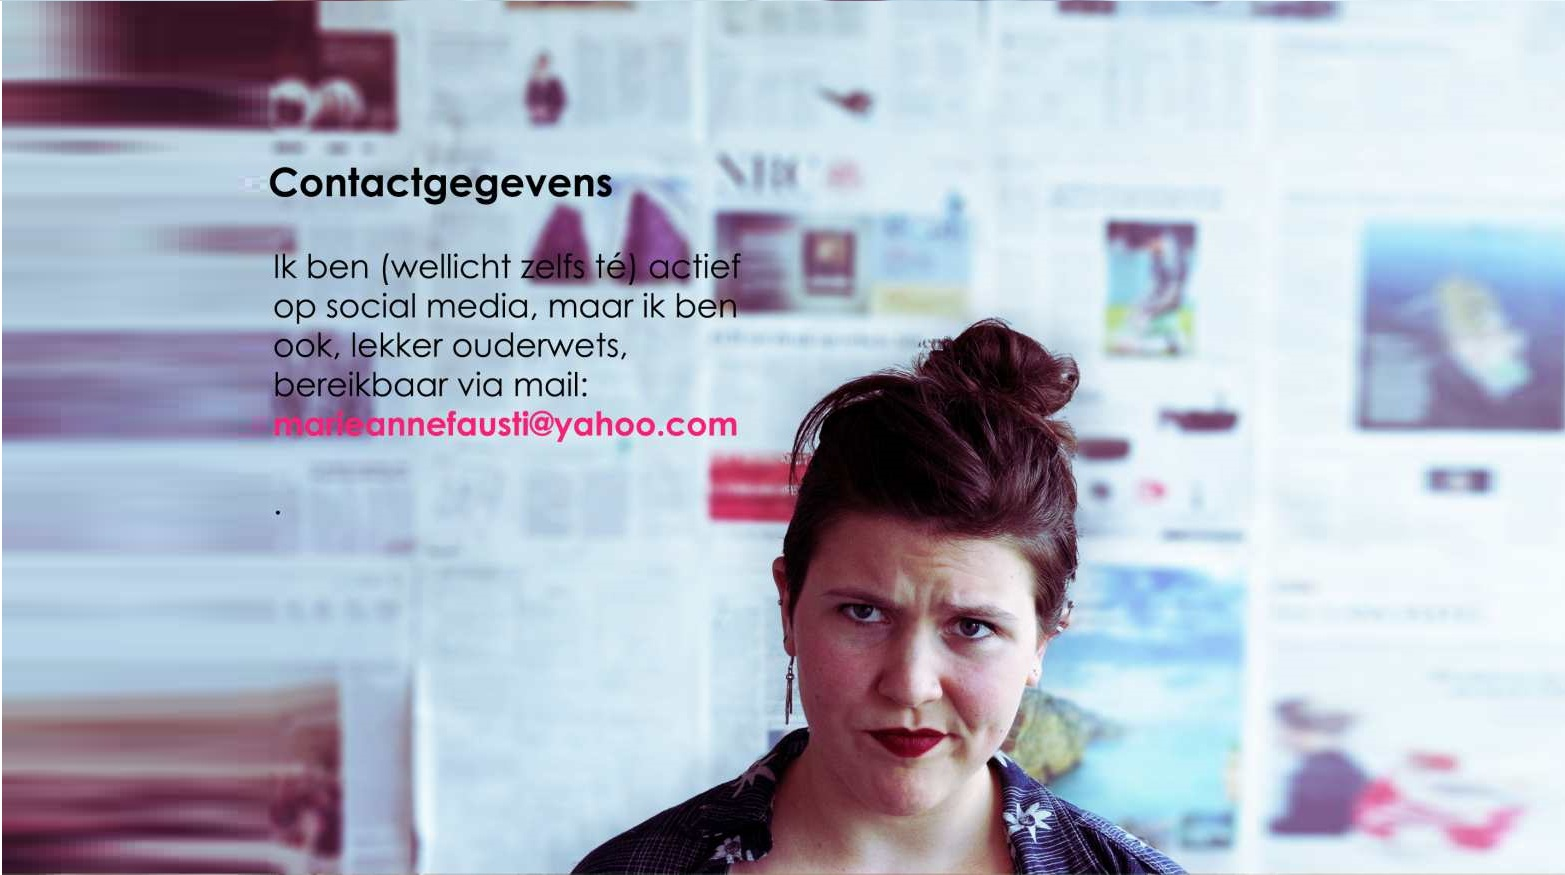
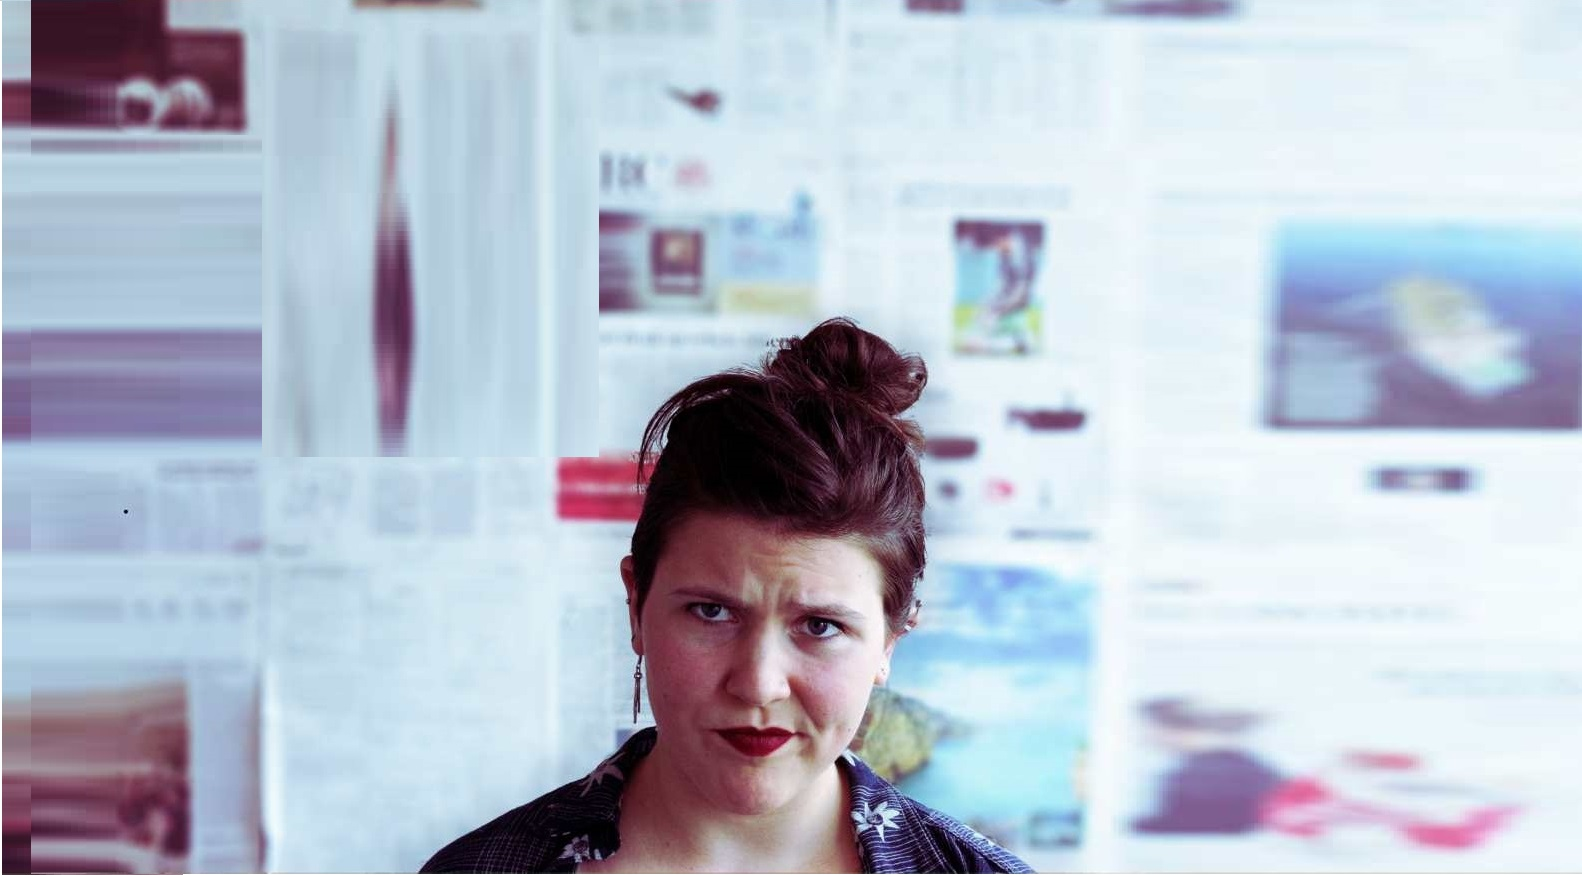
bio completed

diff --git a/site/index.html b/site/index.html
@@ -86,7 +86,11 @@
         <span class="page_size"></span><span class="page_name">section_1-3 bio_2</span>
         
         <nav class="cv_melding">
-          <a target="_blank" href="doc/curricula/favst_cv.pdf">Hier</a> kunt u mijn CV <br/>bekijken.
+          <h2>Contactgegevens</h2>
+          <p>Ik ben (wellicht zelfs té) actief op social media, maar ik ben ook, lekker ouderwets,
+            bereikbaar via mail: <span class="bold crimson">marieannefausti@yahoo.com</span><br/><br/>
+            <a target="_blank" href="doc/curricula/favst_cv.pdf">Hier</a> kunt u mijn CV bekijken.
+          </p>
         </nav>
         
         <nav class="pocket_menu_nav bottom_left">
@@ -236,7 +240,7 @@
             </div>
             <article class="presentation left">
               <h1 class="azur">Ik zoek een kamer in Utrecht</h1>
-              <p class="kleiner bruingeel bruingeel_shadow">Vorig jaar zocht ik een kamer in Utrecht, dus maakte ik dit filmpje in de hoop dat het een paar keer gedeeld zou worden. Echter ging hij toen viral in Nederland en werd ik overspoeld met reacties. Na mijn onverwachte week-of-fame heb ik dan ook een kamertje gevonden.</p>
+              <p class="kleiner bruingeel bruingeel_shadow">Vorig jaar zocht ik een kamer in Utrecht, dus maakte ik dit filmpje in de hoop dat het een paar keer gedeeld zou worden. Echter ging hij toen viral in Nederland en werd ik overspoeld met reacties. Na mijn onverwachte week-of-fame heb ik dan ook <br/>een kamertje <br/>gevonden.</p>
             </article>
         </div>
         <nav class="pocket_menu_nav_small bottom_right">

diff --git a/site/css/style.css b/site/css/style.css
@@ -84,6 +84,8 @@ GENERAL
 
 .right { float: right; }
 
+.bold { font-weight: bold; }
+
 /******************************************************************
 GLOBAL GRID LAYOUT 
 ******************************************************************/
@@ -240,12 +242,12 @@ HOME PAGE STUFF
 
 .pocket_menu_nav.bottom_left {
   bottom: 1%;
-  left: 15%;
+  left: 8%;
 }
 
 .pocket_menu_nav_small.bottom_right {
   bottom: 5%;
-  right: 1%;
+  right: 3%;
 }
 
 .home_page_professional_nav {
@@ -271,9 +273,19 @@ HOME PAGE STUFF
 
 .cv_melding {
   position: absolute;
-  left: 17%;
-  bottom: 46%;
+  left: 4%;
+  top: 0%;
   font-size: 1.5em;
+  width: 36%;
+}
+
+.cv_melding h2 {
+  margin-bottom: 0px;
+}
+
+.cv_melding p {
+  margin-top: 3%;
+  line-height: 1.2em;
 }
 
 .bio_professional_nav ul li a {
@@ -551,6 +563,7 @@ LARGE SCREEN TYPE SIZES
 COLOR GRID AND DIVIDER BACKGROUNDS
 ******************************************************************/
 .azur             { color: #3e94d1; }
+.crimson             { color: #e92577; }
 .groenstaat  { color: #2c9364; }
 .donkergroen  { color: #1d7373; }
 .donkergroen_shadow  { text-shadow: -1px -1px white; }
